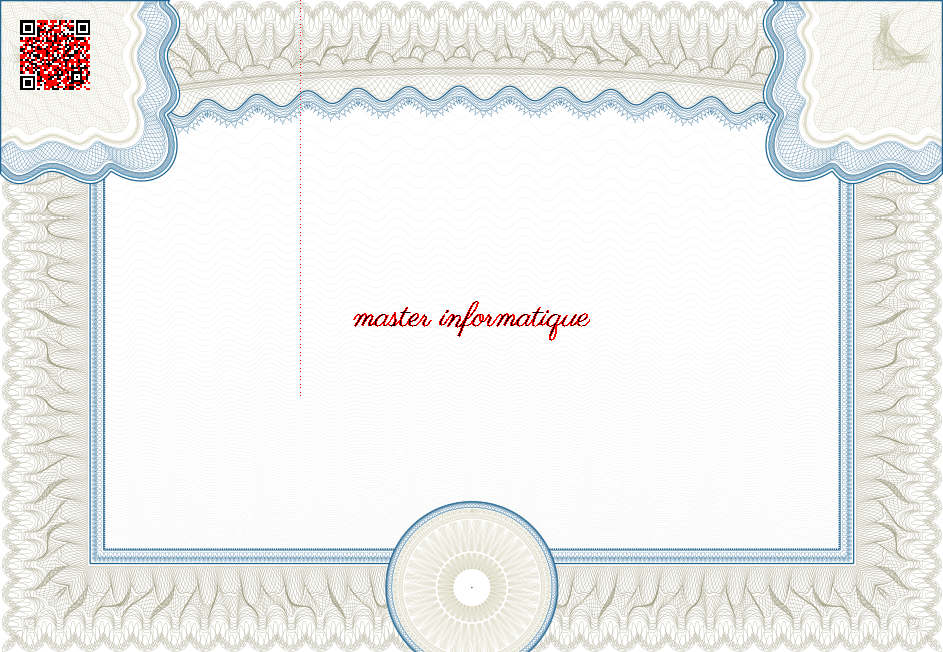
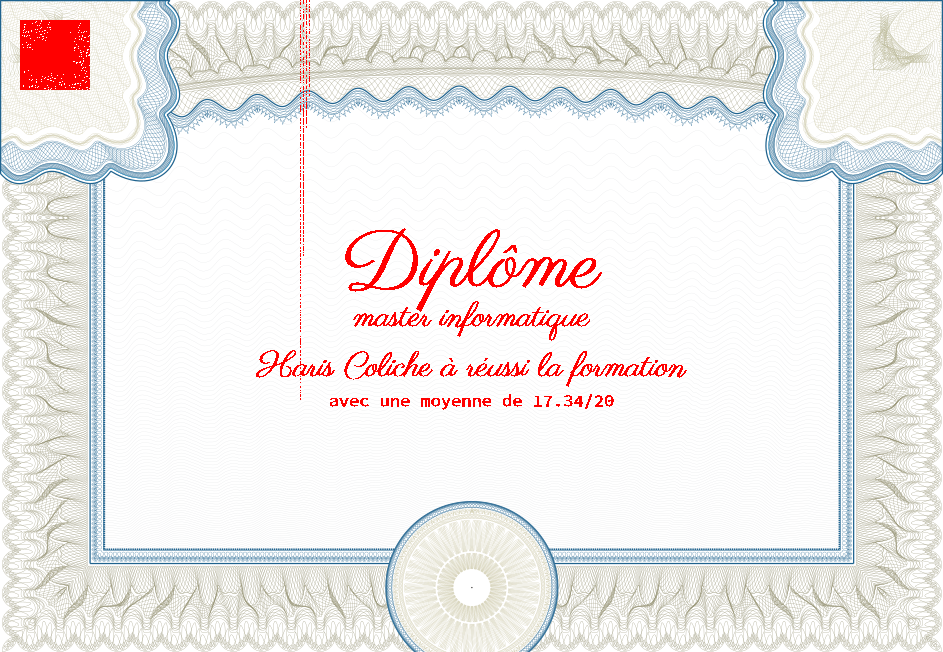
- Finish exercice-2-3-4

diff --git a/exercice-2.ts b/exercice-2.ts
@@ -153,14 +153,14 @@ async function main(filename: string, text: string, output: string) {
 
                 const at = 'Diplôme';
                 text += ' à réussi la formation';
+                ctx.fillStyle = '#000000';
                 ctx.font = '80px sdiplome';
-                // @ts-ignore
-                const {width: w, height: h} = ctx.measureText(at);
+                const {width: w} = ctx.measureText(at);
                 ctx.fillStyle = '#000000';
                 ctx.fillText(
                     at,
                     (img.width / 2) - (w / 2),
-                    (img.height / 2) - h - 40
+                    (img.height / 2) - 40
                 );
                 const at2 = 'master informatique';
                 ctx.font = '34px sdiplome';
@@ -173,19 +173,26 @@ async function main(filename: string, text: string, output: string) {
                     img.height / 2
                 );
 
+                const {width: w10} = ctx.measureText(text);
+                ctx.fillStyle = '#000000';
+                ctx.fillText(
+                    text,
+                    (img.width / 2) - (w10 / 2),
+                    img.height / 2 + 50
+                );
+
                 let mention = '';
                 mention += (Math.random() * (20.00 - 15.00) + 15.00).toFixed(2);
                 data += at2 + '\n' + mention + '\nNIHCAMCURT';
                 console.log(data);
                 const at3 = 'avec une moyenne de ' + mention + '/20';
-                ctx.font = '34px sdiplome';
-                // @ts-ignore
-                const {width: w3, height: h3} = ctx.measureText(at3);
+                ctx.font = '17px mono';
+                const {width: w12} = ctx.measureText(at3);
                 ctx.fillStyle = '#000000';
                 ctx.fillText(
                     at3,
-                    (img.width / 2) - (w3 / 2),
-                    (img.height / 2) + h3 + 40
+                    (img.width / 2) - (w12 / 2),
+                    (img.height / 2) + 80
                 );
 
                 // QRCode
@@ -267,4 +274,4 @@ function test(){
     verify("assets/diplome-exercice-2.png");
 }
 
-main("assets/diplome-exercice-2.png", "Haris Coliche","assets/diplome-exercice-2-diff.png");
+main("assets/diplome-BG.png", "Haris Coliche","assets/diplome-exercice-2.png");
